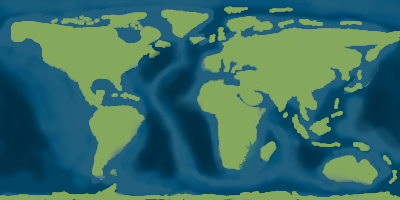
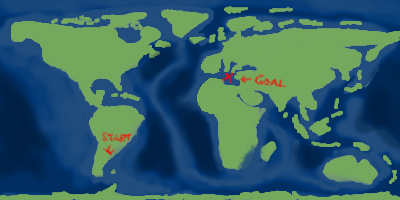
Add victory, improve worldmap

diff --git a/game/modes/victory/mode.py b/game/modes/victory/mode.py
@@ -19,25 +19,25 @@ import glyph
 
 import game.modes.worldmap.mode
 
-class DeathMode(game.Mode):
+class VictoryMode(game.Mode):
 
     def __init__(self, g, swim_mode):
         game.Mode.__init__(self, g)
 
         self.swim_mode = swim_mode
-        self.message = "All your fishies have died :("
+        self.message = "You have made it!"
 
         self.overlay_surf = pygame.Surface(c.GAMEOVER_DIMENSIONS.as_tuple(), flags=SRCALPHA)
         self.overlay_surf.fill((0,0,0,200))
 
-        self.fishbones = pygame.image.load("data/images/fishbones.png").convert_alpha()
+        self.fishbones = pygame.image.load("data/images/fish_whole.png").convert_alpha()
         self.fishbones = pygame.transform.scale(self.fishbones, (self.fishbones.get_width() * 4, self.fishbones.get_height() * 4) )
         self.fishbones_size = m.Vector(self.fishbones.get_width(), self.fishbones.get_height())
 
         self.header_font = pgf.PyGameHieroFont("data/fonts/AmaticSC_52.fnt")
         self.main_font = pgf.PyGameHieroFont("data/fonts/Antic_22.fnt")
 
-        self.surf_game_over = self.header_font.render("Game Over")
+        self.surf_game_over = self.header_font.render("Success!")
         self.surf_message = self.main_font.render(self.message)
 
         self.cursor = pygame.image.load("data/images/cursor.png").convert_alpha()
@@ -109,7 +109,7 @@ class DeathMode(game.Mode):
         self.g_stats = glyph.Glyph(g_rect, bkg=pygame.Color(0,0,0,0), font=self.main_font)
         self.g_stats.image = pygame.Surface(g_rect.size, flags=SRCALPHA)
         self.g_stats.image.fill(pygame.Color(0,0,0,0))
-        self.g_stats.input("Before dying, you have travelled {distance:.2f} m, eaten {food:.2f} kg of food and had {fishies} fishies, {fishies_max} at one time.".format(**stats))
+        self.g_stats.input("Before your victorious arrival, you have travelled {distance:.2f} m, eaten {food:.2f} kg of food and had {fishies} fishies, {fishies_max} at one time.".format(**stats))
         self.g_stats.update()
 
 

diff --git a/game/modes/swim/mode.py b/game/modes/swim/mode.py
@@ -81,6 +81,9 @@ class SwimMode(game.Mode):
 
     def change_sector(self, x, y):
 
+        if (x - c.GOAL_SECTOR[0]) ** 2 + (y - c.GOAL_SECTOR[1]) ** 2 < c.GOAL_RADIUS ** 2:
+            self.game.win(self)
+
         newactive_sectors = set(itertools.product(
             range(x - c.SIMULATION_RADIUS, x + c.SIMULATION_RADIUS + 1),
             range(y - c.SIMULATION_RADIUS, y + c.SIMULATION_RADIUS + 1)
@@ -109,9 +112,6 @@ class SwimMode(game.Mode):
 
         self.color = game.world.data['WORLD'].get_at((x, y))
         self.depth = game.world.depth((x,y))
-
-        print(self.depth)
-
 
         self.sector_history.append((x, y))
 

diff --git a/game/modes/worldmap/mode.py b/game/modes/worldmap/mode.py
@@ -18,7 +18,7 @@ import glyph
 
 class WorldmapMode(game.Mode):
 
-    def __init__(self, g, swim_mode):
+    def __init__(self, g, swim_mode, prev_mode):
         game.Mode.__init__(self, g)
 
         self.swim_mode = swim_mode
@@ -56,7 +56,7 @@ class WorldmapMode(game.Mode):
             self.game.mode = game.modes.swim.mode.SwimMode(self.game)
 
         def stats():
-            self.game.mode = game.modes.death.mode.DeathMode(self.game, self.swim_mode)
+            self.game.mode = prev_mode
 
         self.buttons = [
             {"title": "Main Menu", "action": menu},

diff --git a/game/main.py b/game/main.py
@@ -9,6 +9,7 @@ import game.constants as c
 import game.audio
 
 import game.modes.menu.mode
+import game.modes.victory.mode
 
 import py2d.Math as m
 
@@ -32,6 +33,10 @@ class Game(object):
 
     def die(self, swim_mode):
         self.mode = game.modes.death.mode.DeathMode(self, swim_mode)
+
+
+    def win(self, swim_mode):
+        self.mode = game.modes.victory.mode.VictoryMode(self, swim_mode)
 
     def loop(self):
 

diff --git a/game/constants.py b/game/constants.py
@@ -6,8 +6,14 @@ SCREEN_DIMENSIONS = m.Vector(640, 480)
 GAMEOVER_DIMENSIONS = m.Vector(640, 400)
 WORLDMAP_SCALE = 1.2
 
-START_SECTOR = (123, 88)
+START_SECTOR = (112, 164)
+#START_SECTOR = (123, 88)
 START_SAFEZONE = 300
+
+GOAL_SECTOR = (220, 75)
+#GOAL_SECTOR = (129, 88)
+GOAL_RADIUS = 5
+
 SECTOR_SIZE = m.Vector(600, 600)
 SIMULATION_RADIUS = 1
 
